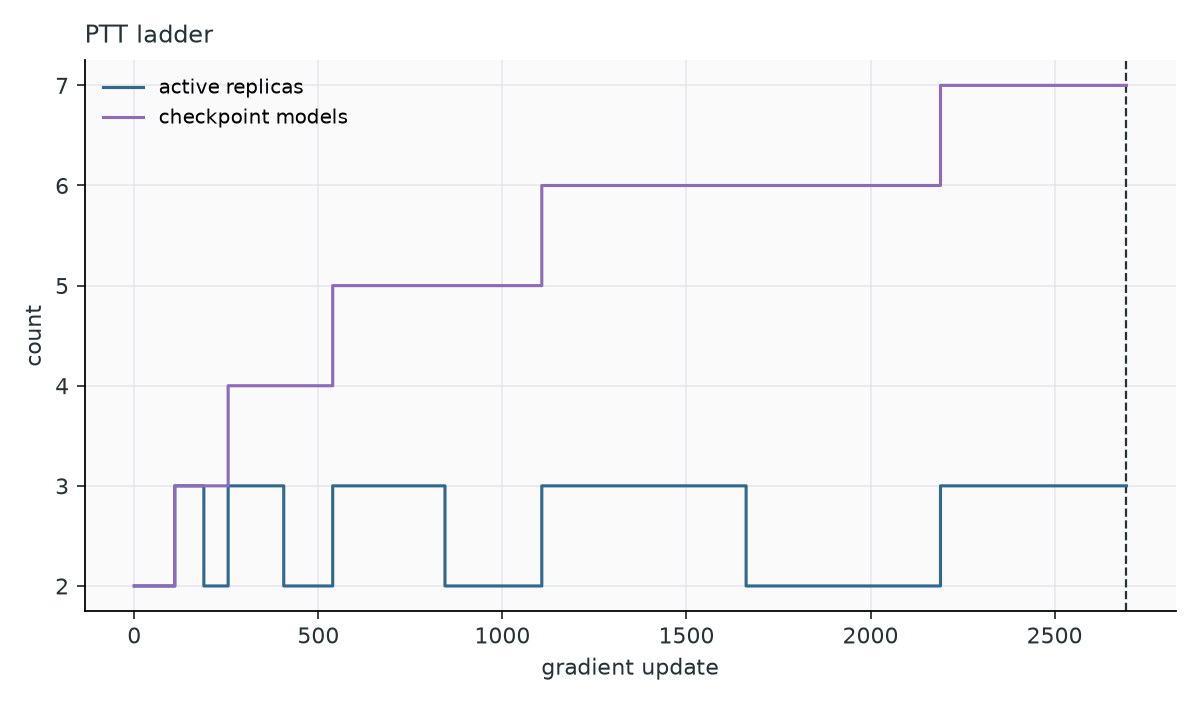
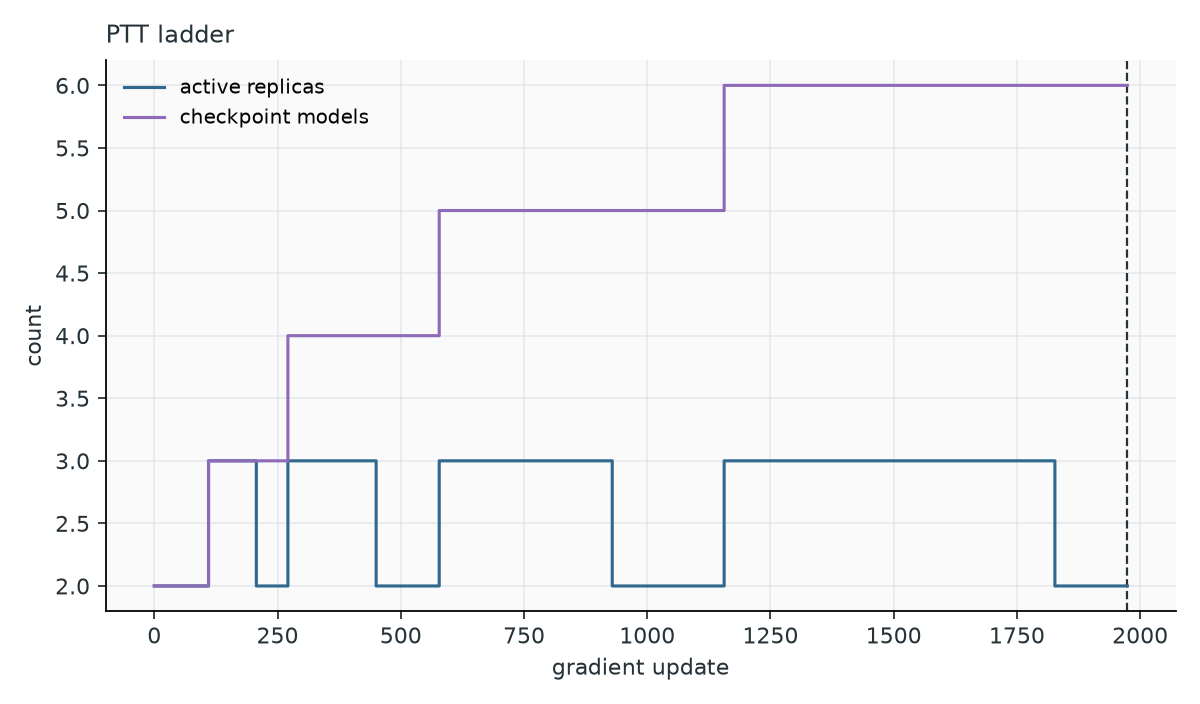
PTT: update with centred gradients by default
Summed over the partner site, the raw coupling gradient is (L-1) times the field
gradient, so the coupling step repeats the field step. When the KL trust region binds,
the adaptive optimizer then stops the fields (rate at its floor at every update on
RF00023). With the centering trick the coupling step is the difference of connected
correlations, which has no one-site part, and the field step carries the rest:
fields and couplings move independently and both use the KL budget.

Centred updates reach a higher validation likelihood on beta-lactamase and RF00023
and make cm_russ trainable at the default 10 sweeps. --no-ptt-centering restores the
raw gradient; archives written before this change resume only with it, and a
resume refused for differing PTT settings now names them (ptt.<option>).

Diagnostics: a binding trust region (and, uncentred, the field rate at its floor) is
reported as normal on its own; F5 is raised only together with mixing failures,
recoveries or repeated lag pauses. Docs and RF00379 training figures updated.

Claude-Session: https://claude.ai/code/session_01AZrtwVGjTDo49zzgvtcbPU

diff --git a/tests/test_ptt.py b/tests/test_ptt.py
@@ -222,7 +222,7 @@ def training_case(tmp_path):
 
 
 def test_ptt_sgd_keeps_both_rates_fixed():
-    config = TrainingConfig(learning_rate=0.1, ptt=PTTConfig(optimizer="sgd"))
+    config = TrainingConfig(learning_rate=0.1, ptt=PTTConfig(optimizer="sgd", centering=False))
     optimizer = _PTTOptimizer(config)
     params = profile()
     mask = torch.ones_like(params["coupling_matrix"])
@@ -295,6 +295,32 @@ def test_ptt_trust_region_keeps_rates_positive_inside_the_trust_region():
     assert scales[0] == pytest.approx(0.0, abs=1e-11) and scales[0] > 0
 
 
+def test_ptt_centering_uses_connected_correlations_and_centred_fields():
+    torch.manual_seed(0)
+    length, states = 4, 3
+    mask = torch.ones(length, states, length, states, dtype=torch.float64)
+    mask[torch.arange(length), :, torch.arange(length), :] = 0
+
+    def frequencies():
+        samples = torch.nn.functional.one_hot(torch.randint(states, (200, length)), states).double()
+        return samples.mean(0), get_freq_two_points(samples) * mask
+
+    (fi, fij), (pi, pij) = frequencies(), frequencies()
+    gradients = _PTTOptimizer._centered({"bias": fi - pi, "coupling_matrix": (fij - pij) * mask},
+                                        fi=fi, pi=pi, mask=mask)
+
+    def connected(f, ff):
+        return ff - torch.einsum("ia,jb->iajb", f, f)
+
+    coupling = gradients["coupling_matrix"]
+    assert torch.allclose(coupling, (connected(fi, fij) - connected(pi, pij)) * mask)
+    # No one-site part: every block sums to zero over the partner's states.
+    assert coupling.sum(3).abs().max() < 1e-12
+    assert torch.equal(coupling, coupling.permute(2, 3, 0, 1))
+    offset = 0.5 * (fi + pi)
+    assert torch.allclose(gradients["bias"], fi - pi - torch.einsum("iajb,jb->ia", coupling, offset))
+
+
 def test_ptt_optimizer_configuration_and_cli_are_ptt_specific(tmp_path):
     from adabmDCA.scripts.train import create_parser, run
 
@@ -303,6 +329,11 @@ def test_ptt_optimizer_configuration_and_cli_are_ptt_specific(tmp_path):
     ])
     assert parsed.ptt_optimizer == "adaptive"
     assert parsed.ptt_trust_radius == 0.002
+    assert parsed.ptt_centering is None
+    assert create_parser().parse_args([
+        "--data", "unused.fasta", "--strategy", "ptt", "--no-ptt-centering",
+    ]).ptt_centering is False
+    assert PTTConfig().centering is True
     assert create_parser().parse_args([
         "--data", "unused.fasta", "--strategy", "ptt", "--ptt-optimizer", "sgd",
     ]).ptt_optimizer == "sgd"
@@ -314,6 +345,8 @@ def test_ptt_optimizer_configuration_and_cli_are_ptt_specific(tmp_path):
         ]))
     with pytest.raises(InputValidationError, match="optimizer"):
         PTTConfig(optimizer="unknown")
+    with pytest.raises(InputValidationError, match="centering"):
+        PTTConfig(centering="yes")
 
 
 def test_ptt_metrics_resume_and_consumers(training_case, tmp_path, monkeypatch):
@@ -398,6 +431,26 @@ def test_ptt_adaptive_resume_preserves_trust_region_state(training_case, tmp_pat
     assert saved.optimizer_state["kind"] == "adaptive"
     assert saved.optimizer_state["trust_diagnostics"] is not None
     assert saved.optimizer_state["nominal_rates"] == {"bias": 0.02, "coupling_matrix": 0.02}
+
+
+def test_archives_from_before_centering_resume_uncentered(training_case, tmp_path):
+    data, base = training_case
+    assert base.ptt.centering is True
+    config = replace(base, ptt=replace(base.ptt, centering=False))
+    complete = train_model(data, config=config)
+    partial = train_model(data, config=replace(config, max_epochs=1), output_dir=tmp_path / "old")
+    archive_path = partial.artifacts["ptt_archive"]
+    with h5py.File(archive_path, "r+") as archive:
+        metadata = json.loads(archive.attrs["metadata"])
+        del metadata["config"]["centering"]
+        del metadata["training_state"]["settings"]["ptt"]["centering"]
+        archive.attrs["metadata"] = json.dumps(metadata)
+
+    with pytest.raises(InputValidationError, match="settings: ptt.centering"):
+        train_model(data, config=base, ptt_resume=archive_path)
+    resumed = train_model(data, config=config, ptt_resume=archive_path)
+    torch.testing.assert_close(complete.model.params["coupling_matrix"],
+                               resumed.model.params["coupling_matrix"], rtol=0, atol=0)
 
 
 def test_metrics_use_injected_ptt_normalizer(training_case, monkeypatch):

diff --git a/adabmDCA/parser.py b/adabmDCA/parser.py
@@ -265,6 +265,10 @@ def add_args_ptt(parser: argparse.ArgumentParser) -> argparse.ArgumentParser:
     ptt_args.add_argument("--ptt-optimizer", choices=("adaptive", "sgd"), default=None,
                           help=("PTT optimizer: adaptive bounds each update by a KL trust radius and pauses when endpoint "
                                 "chains lag; sgd uses the fixed --lr (default: adaptive)."))
+    ptt_args.add_argument("--ptt-centering", action=argparse.BooleanOptionalAction, default=None,
+                          help=("Update with the centering trick: connected-correlation coupling gradient, field step "
+                                "corrected for the centring offset. Without it the coupling step repeats the field "
+                                "step and the trust region can stop the fields (default: on)."))
     ptt_args.add_argument("--ptt-trust-radius", type=float, default=None,
                         help="Adaptive optimizer: maximum local KL divergence per update (default: 0.01).")
     ptt_args.add_argument("--ptt-lag-tolerance", type=float, default=None,
@@ -478,13 +482,13 @@ def add_args_sample(parser: argparse.ArgumentParser) -> argparse.ArgumentParser:
               "run. --ngen defaults to their number; a smaller --ngen starts from a random subset."),
     )
     standard_args.add_argument(
-        "--nsweeps", type=int, default=None,
-        help="Run exactly this many sweeps, without measuring the mixing time (replaces --max_nsweeps and --nmix).",
-    )
-    standard_args.add_argument(
         "--init-distribution", choices=("profile", "uniform"), default=None,
         help=("Distribution of the starting sequences without --init-sequences: the profile (independent-site) "
               "model of --data, or uniformly random residues. Default: profile with --data, uniform without."),
+    )
+    standard_args.add_argument(
+        "--nsweeps", type=int, default=None,
+        help="Run exactly this many sweeps, without measuring the mixing time (replaces --max_nsweeps and --nmix).",
     )
     standard_args.add_argument(
         "--record-every", type=int, default=1,

diff --git a/adabmDCA/ptt/optim.py b/adabmDCA/ptt/optim.py
@@ -28,6 +28,7 @@ class _PTTOptimizer:
         self.kind = ptt.optimizer
         self.trust_radius = ptt.trust_radius
         self.lag_tolerance = ptt.lag_tolerance
+        self.centering = ptt.centering
         self.pause_cooldown = 0
         self.last_pause = None
         self.rates = {key: config.learning_rate for key in self._keys}
@@ -297,12 +298,30 @@ class _PTTOptimizer:
         }
         self.pause_cooldown = max(0, self.pause_cooldown - 1)
 
+    @staticmethod
+    def _centered(gradients, *, fi, pi, mask):
+        """Centering trick: the gradients of the energy written in x - mu, with mu = (fi + pi) / 2, mapped back.
+
+        Summed over the partner site, the raw coupling gradient is (L - 1) times the field gradient: the
+        coupling step repeats the field step, and the two are almost collinear. Centred, the coupling
+        gradient is the difference of connected correlations, Cij_data - Cij_model, which has no one-site
+        part, and the field step absorbs the shift of the centred parametrization:
+        dh_i(a) = (fi - pi)_i(a) - sum_{j,b} dJ_ij(a, b) mu_j(b).
+        """
+        offset = 0.5 * (fi + pi)
+        coupling = (gradients["coupling_matrix"]
+                    - (torch.einsum("ia,jb->iajb", fi, fi) - torch.einsum("ia,jb->iajb", pi, pi))) * mask
+        bias = gradients["bias"] - torch.einsum("iajb,jb->ia", coupling, offset)
+        return {"bias": bias, "coupling_matrix": coupling}
+
     def step(self, *, fi, fij, pi, pij, params, mask, l2_regularization, sampler=None):
         gradients = {
             "bias": fi - pi,
             "coupling_matrix": fij - pij - l2_regularization * params["coupling_matrix"],
         }
         gradients["coupling_matrix"] = gradients["coupling_matrix"] * mask
+        if self.centering:
+            gradients = self._centered(gradients, fi=fi, pi=pi, mask=mask)
         if self.kind == "adaptive":
             if sampler is None:
                 raise InputValidationError("The adaptive PTT optimizer requires its PTT sampler.")

diff --git a/adabmDCA/api/diagnostics.py b/adabmDCA/api/diagnostics.py
@@ -301,18 +301,32 @@ def _check_training(
             "F1",
         )
     long_enough = (indicators.get("updates") or 0) >= MIN_UPDATES_FOR_RATES
-    if long_enough and (
+    # A binding trust region with the field rate at its floor is the exact optimum when the coupling step
+    # already carries the field step, and is normal on its own. It points at the learning rate only when the
+    # chains also fail to follow the model.
+    binding = long_enough and (
         (indicators.get("lr_bias_at_floor_fraction") or 0) > 0.5
         or (indicators.get("median_kl") or 0) >= 0.0099
-    ):
+    )
+    struggling = failed or indicators.get("recoveries") or indicators.get("lag_pauses", 0) >= 3
+    if binding and struggling:
         findings.add(
             "warning",
             "learning_rate_too_large",
             f"lr_bias at its floor in {indicators.get('lr_bias_at_floor_fraction')} of the "
-            f"updates, median kl {indicators.get('median_kl')} (cap 0.01): the trust region "
-            "binds at every step.",
-            "Go back to the default --lr 0.01.",
+            f"updates, median kl {indicators.get('median_kl')} (cap 0.01), together with mixing "
+            "failures, recoveries or repeated lag pauses: the steps may outpace the chains.",
+            "Treat the mixing failures first; if they persist, try a smaller --lr.",
             "F5",
+        )
+    elif binding:
+        findings.add(
+            "info",
+            "trust_region_binding",
+            f"lr_bias at its floor in {indicators.get('lr_bias_at_floor_fraction')} of the "
+            f"updates, median kl {indicators.get('median_kl')} (cap 0.01): the trust region "
+            "binds and the couplings carry the field corrections. Normal without mixing failures.",
+            "Nothing to do.",
         )
     if long_enough and (indicators.get("fraction_acceptance_below_0.1") or 0) > 0.1:
         findings.add(

diff --git a/adabmDCA/ptt/config.py b/adabmDCA/ptt/config.py
@@ -58,6 +58,10 @@ class PTTConfig:
             paused while the endpoint chains lag behind the model) or ``"sgd"``
             (fixed learning rate).
         trust_radius: Adaptive optimizer: largest predicted KL divergence of one update.
+        centering: Update with the centering trick: connected-correlation coupling
+            gradient, field step corrected for the centring offset. Removes the one-site
+            part of the coupling step, which otherwise repeats the field step and makes
+            the trust region stop the fields.
         lag_tolerance: Adaptive optimizer: largest lag of the endpoint chains, in
             population standard deviations, before training pauses.
         lag_horizon: Adaptive optimizer: memory of past updates, in updates.
@@ -102,6 +106,7 @@ class PTTConfig:
     min_learning_rate: float = 1e-8
     optimizer: str = "adaptive"
     trust_radius: float = 0.01
+    centering: bool = True
     lag_tolerance: float = 0.25
     lag_horizon: int = 200
     lag_pause_rounds: int = 100
@@ -136,6 +141,8 @@ class PTTConfig:
             raise InputValidationError("PTT renewal_tolerance must be between 0 and 1.")
         if self.optimizer not in PTT_OPTIMIZERS:
             raise InputValidationError("PTT optimizer must be 'sgd' or 'adaptive'.")
+        if not isinstance(self.centering, bool):
+            raise InputValidationError("PTT centering must be boolean.")
         if self.activation not in PTT_ACTIVATIONS:
             raise InputValidationError("PTT activation must be 'fixed' or 'adaptive'.")
         for name in (

diff --git a/tests/test_diagnostics.py b/tests/test_diagnostics.py
@@ -68,6 +68,18 @@ class DiagnoseRunTests(unittest.TestCase):
         self.assertEqual(failures["learning_rate_too_large"]["failure"], "F5")
         self.assertEqual(report["training"]["blocking_immobile_configurations"], 61)
 
+    def test_binding_trust_region_alone_is_not_a_failure(self):
+        run = self.tmp / "run"
+        write_ptt_run(run, lr_bias=1e-14, kl=0.01,
+                      summary={"stop_reason": "validation_plateau", "converged": True, "warnings": []})
+
+        report = diagnose_run(run)
+
+        codes = {finding["code"] for finding in report["findings"]}
+        self.assertNotIn("learning_rate_too_large", codes)
+        self.assertIn("trust_region_binding", codes)
+        self.assertEqual(report["verdict"], "healthy")
+
     def test_short_runs_do_not_trigger_rate_based_findings(self):
         run = self.tmp / "run"
         write_ptt_run(run, updates=20, lr_bias=1e-14, kl=0.01, summary={"stop_reason": "validation_plateau"})

diff --git a/adabmDCA/ptt/training.py b/adabmDCA/ptt/training.py
@@ -199,6 +199,14 @@ class _PTTTrainer:
             key for key in set(archived_settings) | set(current_settings)
             if archived_settings.get(key) != current_settings.get(key)
         )
+        if "ptt" in differing_settings and all(isinstance(s.get("ptt"), dict)
+                                               for s in (archived_settings, current_settings)):
+            archived_ptt, current_ptt = archived_settings["ptt"], current_settings["ptt"]
+            differing_settings.remove("ptt")
+            differing_settings += sorted(
+                f"ptt.{key}" for key in set(archived_ptt) | set(current_ptt)
+                if archived_ptt.get(key) != current_ptt.get(key)
+            )
         if target_mismatch or differing_settings:
             reasons = []
             if target_mismatch:

diff --git a/tests/test_ptt_renewal.py b/tests/test_ptt_renewal.py
@@ -279,7 +279,7 @@ def test_renewal_training_logs_resumes_exactly_and_pins_the_method(tmp_path):
     resumed = train_model(data, config=config, ptt_resume=partial.artifacts["ptt_archive"])
     torch.testing.assert_close(complete.model.params["coupling_matrix"],
                                resumed.model.params["coupling_matrix"], rtol=0, atol=0)
-    with pytest.raises(Exception, match="configuration differ from the archive in settings: ptt"):
+    with pytest.raises(Exception, match="configuration differ from the archive in settings: ptt.mixing_method"):
         train_model(data, config=replace(config, ptt=replace(config.ptt, mixing_method="autocorrelation")),
                     ptt_resume=partial.artifacts["ptt_archive"])
 

diff --git a/adabmDCA/ptt/archive.py b/adabmDCA/ptt/archive.py
@@ -179,6 +179,8 @@ def load_archive(cls, path, *, device="cpu", mode="generate", seed=None):
                 key: value for key, value in meta["config"].items()
                 if key in valid_config_fields
             }
+            # Archives written before centering became the default were trained without it.
+            meta["config"].setdefault("centering", False)
             resolved_config = asdict(PTTConfig(**meta["config"]))
             if meta["training_state"]:
                 meta["training_state"]["settings"]["ptt"] = resolved_config

diff --git a/docs/algorithms/diagnostics.md b/docs/algorithms/diagnostics.md
@@ -33,11 +33,14 @@ The failures observed so far fall into three groups:
 | Error naming a link "below the target", with no immobile configurations | [F3](#f3-a-ladder-link-is-too-wide) | Smaller `--lr`, or larger `--ptt-target-acceptance` |
 | Error saying "every link accepts at least the target" | [F4](#f4-the-replicas-relax-too-slowly) | More `--nsweeps` |
 | Repeated `restored step …; learning rates …` lines, `lr_coupling` halving | F1, F3, F4 or F5 | Read the mixing-failure lines just before each recovery |
-| `lr_bias` at ~10⁻¹⁴ and `kl` at 0.01 for most updates | [F5](#f5-the-learning-rate-is-too-large) | Back to the default `--lr 0.01` |
+| `kl` at 0.01 for most updates (and `lr_bias` at ~10⁻¹⁴ with `--no-ptt-centering`), with mixing failures or recoveries | [F5](#f5-the-learning-rate-is-too-large) | Treat the failures first; then a smaller `--lr` |
+| `kl` at 0.01 for most updates, training otherwise clean | The trust region binds; normal | Nothing |
+| `lr_bias` at ~10⁻¹⁴ for many updates, with `--no-ptt-centering` | The field steps are stopped, training is slow | Drop `--no-ptt-centering` ([why](training.md#centred-updates)) |
 | Training finished, but independent samples disagree with training (Pearson, cluster shares), or the ladder health shows trapped links | [F6](#f6-good-metrics-miscalibrated-model) | Retrain with more `--nsweeps` |
 | PTT sampling warns that `G` stopped decreasing or its decay time doubled, or hits `--ptt-max-rounds` | [F7](#f7-slow-or-incomplete-ptt-sampling) | Usually a better training run |
 | "PTT initial mixing experiment exceeded its round budget" | [F8](#f8-the-initial-mixing-check-fails) | Check the input |
 | PCD model: plain MCMC sampling reaches `--max_nsweeps` without a mixing time | [Checking a PCD model](#checking-a-pcd-model) | Retrain with PTT |
+| Plain MCMC samples have many more gaps than the data at the ends of the alignment, or in another block of columns, and a Pearson that depends on the seed | Chains trapped in a gap block ([Plain MCMC and blocks of gaps](#plain-mcmc-and-blocks-of-gaps)) | Start from the profile (the default with `-d`), or sample with PTT |
 | Plain MCMC resampling: `pearson_sampling.png` rises above its final level, then declines | Model trained out of equilibrium ([Checking a PCD model](#checking-a-pcd-model)) | Retrain with PTT |
 
 ## Triage procedure
@@ -70,8 +73,8 @@ The failures observed so far fall into three groups:
 | `ll_val` | Rising, then flat; spikes up to 0.01 per site at ladder changes | Falling over hundreds of updates |
 | `acceptance_min` | Saw-tooth between ~0.25 and 0.5–0.9 | Long stretches below 0.25, or below 0.1 |
 | `replicas` | 2–3 | — |
-| `lr_bias`, `lr_coupling` | At `--lr` most of the time | Halved after recoveries; `lr_bias` at the floor most of the time |
-| `kl` | Median well below 0.01 (~10⁻³) | Pinned at 0.01 |
+| `lr_bias`, `lr_coupling` | At `--lr`; below it when the trust region binds (with `--no-ptt-centering`, `lr_bias` at the floor instead) | Halved after recoveries |
+| `kl` | Below 0.01, or pinned at 0.01 when the trust region binds | Pinned at 0.01 together with mixing failures |
 | `lag_drift`, `lag_drift_tail` | Below ~0.05 most of the time | Peaks approaching 0.25 |
 
 **5. Check the finished model** as described [below](#checking-a-finished-model). Training metrics alone cannot prove that a model is good.
@@ -174,11 +177,13 @@ On a healthy protein run (cm_russ, `--nsweeps 100`): `validation_plateau`, no fa
 
 ### F5. The learning rate is too large
 
-**Symptoms.** `kl` pinned at 0.01, `lr_coupling` below `--lr` and fluctuating, `lr_bias` at about 10⁻¹⁴ for most updates, earlier and more frequent mixing failures.
+**Symptoms.** Earlier and more frequent mixing failures and recoveries, while `kl` is pinned at 0.01. With `--no-ptt-centering`, `lr_bias` also sits at about 10⁻¹⁴.
 
-**Mechanism.** With a large `--lr` the trust region binds at every step. Field and coupling steps change the sequence statistics along strongly correlated directions, so the optimizer spends the whole budget on the couplings and sets the field rate to its floor: the exact optimum of its quadratic model, not a bug. The larger steps move the model faster than the chains can follow, making F1 and F3 more likely. (Occasional updates with the field rate at the floor are normal at any learning rate.)
+**Mechanism.** The larger steps move the model faster than the chains can follow, making F1 and F3 more likely.
 
-**Fix.** The default `--lr 0.01`.
+A pinned `kl` alone is not a symptom, nor is the field rate at its floor with `--no-ptt-centering`: the raw coupling step repeats the field step, so a binding trust region stops the fields and fits them through the couplings, more slowly ([centred updates](training.md#centred-updates)).
+
+**Fix.** Treat the mixing failures first (F1, F3). If they persist, use a smaller `--lr`.
 
 ### F6. Good metrics, miscalibrated model
 
@@ -233,6 +238,14 @@ A PCD model has no ladder, so it can only be sampled with plain MCMC. Run `adabm
 3. **The plateau value**, compared with the training Pearson at equal sample size, as for PTT models.
 
 Passing all three is necessary, not sufficient. A monotone curve can belong to a model whose relaxation is too slow to show the decline within the run, or to chains confined to one region of a multimodal model.
+
+### Plain MCMC and blocks of gaps
+
+Columns that are gapped together in some sequences form a cooperative unit. Truncated sequences are the common case: in RF00023, 3% of the training sequences lack both strands of the terminal helix, with columns 0–7 and the last 14 gapped together. Every model of that family makes this state a deep trap for single-site updates. It lies about 20 energy units below the complete sequence, and a gap at its edge stays a gap with probability 0.99, because putting a nucleotide there leaves it facing a gap in its paired column. Its equilibrium weight is only 3% because it has much less entropy: the summed CDE of those 22 columns is 1.1–1.6 nats, against 3.4–4.2 when the helix is present. Plain MCMC cannot cross between the two states: from any start, the gapped state ends at its starting share.
+
+Where the chains start therefore decides the result. Uniformly random sequences have a gap at one site in five, and in that context the model is not constrained by data. A model of RF00023 trained with [centred updates](training.md#centred-updates), the default, gives the terminal columns a gap probability of 0.35 there. Within 30 sweeps, 10–28% of the chains (depending on the seed) had built the gapped state, against 3% at equilibrium, and they stayed there for the whole run. The Pearson of the samples fell to 0.77–0.91, against 0.946 for PTT, and the mixing time was reached anyway, since it is measured from natural sequences. The other models of the family gave the same columns a gap probability of 0.03–0.11 in a random context and only 0.1% of the chains got trapped. Started from the profile, the same centered model gave 0.941.
+
+The profile is the default start for this reason. It does not make plain MCMC exact: from the profile, every model of RF00023 ended with 0–0.3% of the chains in the gapped state instead of 2–3%, because the chains cannot build it either. PTT samples it correctly. When plain MCMC samples differ from the data in a block of columns that are often gapped, compare the gap frequency of those columns with the data's, and sample with PTT.
 
 ## Distances and overfitting
 

diff --git a/docs/algorithms/training.md b/docs/algorithms/training.md
@@ -84,11 +84,15 @@ When a check fails, PTT **recovers**: it searches the saved checkpoints backward
 
 [Diagnose a run](diagnostics.md) explains each case and what to change.
 
+### Centred updates
+
+The raw coupling gradient, \(f_{ij} - p_{ij}\), repeats the field gradient: summed over the partner site it is \(L-1\) times \(f_i - p_i\). By default PTT removes this one-site part with the **centering trick**: the coupling step becomes the difference of connected correlations, \(C_{ij}^{\rm data} - C_{ij}^{\rm model}\), and the field step takes over the single-site correction ([formulas](../quantities/training.md#adaptive-optimizer-and-predicted-kl)). Field and coupling updates are then no longer correlated, so the [trust region](#the-adaptive-optimizer) spends its KL budget on both instead of stopping the fields, and training goes further: on β-lactamase and RF00023 it reaches a clearly higher validation likelihood. On cm_russ it also makes training at the default 10 sweeps work, where without centering the run stalls in repeated pauses and needs `--nsweeps 100`. The better-fitted models can be somewhat harder to sample: on large families, PTT sampling may need a larger `--ptt-max-rounds` ([F7](diagnostics.md#f7-slow-or-incomplete-ptt-sampling)). `--no-ptt-centering` restores the raw gradient.
+
 ### The adaptive optimizer
 
 The default PTT optimizer, `adaptive`, does two things a fixed learning rate cannot.
 
-**Trust-region steps.** Fields and couplings get separate learning rates, both at most `--lr`. Before every update the optimizer estimates, from the endpoint chains, how much the proposed step would change the model distribution, measured as a KL divergence. It accounts for the correlation between field and coupling directions, which is strong (95% on cm_russ). It then picks the rates that maximize the predicted likelihood gain while keeping the predicted KL below `--ptt-trust-radius` (0.01). At the default `--lr 0.01` the constraint rarely binds: both rates stay at 0.01 and the predicted KL is around 10⁻³. With a larger `--lr`, it binds at every step, and the optimizer spends the whole budget on the couplings, leaving the field rate at its floor.
+**Trust-region steps.** Fields and couplings get separate learning rates, both at most `--lr`. Before every update the optimizer estimates, from the endpoint chains, how much the proposed step would change the model distribution, measured as a KL divergence. It accounts for the correlation between field and coupling directions. It then picks the rates that maximize the predicted likelihood gain while keeping the predicted KL below `--ptt-trust-radius` (0.01). With centred updates at the default `--lr 0.01`, the constraint rarely binds: both rates stay at 0.01. When it binds, both rates fall together.
 
 **Pausing when the chains fall behind.** A small step in parameter space can still be too fast for the chains. When a new mode forms (a subfamily the model starts to represent), the time the chains need to populate it grows. If updates continue, the gradient is computed from chains that under-represent the mode, asks for more of it, and the model overshoots. The optimizer measures this **lag** before every update. Each endpoint configuration carries a memory of the energy changes recent updates imposed on it; if the chains had caught up, a configuration's current state would no longer correlate with those pushes. The remaining correlation, in population standard deviations, is the lag. It is measured along the *drift*, the energy difference between the endpoint and the rung below, which is the direction the model has moved, and along the tails of the drift distribution, where a forming mode first shows.
 
@@ -150,6 +154,8 @@ With windows of 100 on RF00379 (three seeds, as in the figure), the rule stopped
 
 *The same models, validation log-likelihood against mixing time, coloured by update. Up to the validation stop (circled) both grow together; afterwards the mixing time keeps growing while the held-out likelihood declines.*
 
+The mixing time does not follow the size of the couplings. On RF00023, models with the same coupling norm, trained with different learning rates, differed by 1.5× in mixing time, and a model with smaller couplings mixed more slowly than one with larger couplings. This is an observation on a few models, not a rule. How long a model takes to sample depends on how its couplings are arranged, so measure it rather than infer it from the parameters.
+
 A Pearson target chosen in advance cannot tell where this turning point lies: it depends on the family and on the training data. When a validation set is available, rely on the validation stop rather than on `--target`.
 
 **Budgets.** `--max-gradient-steps`, `--max-structure-steps` and `--nepochs` stop training before convergence, with a stop reason that says so.
@@ -176,11 +182,11 @@ The figures produced by `plot-training-log` for an RF00379 PTT run. Read them to
 
 ![RF00379 learning rates](../figures/rf00379/training/training_learning_rates.png){ width="600" }
 
-**Learning rates.** At the default `--lr` both rates stay at 0.01 most of the time. Occasional updates with the field rate at its floor (10⁻¹⁴) are normal: the trust region then spends its budget on the couplings. A field rate at the floor for most updates means `--lr` is too large. Halved rates after a recovery persist.
+**Learning rates.** Both rates stay at `--lr` while the trust region does not bind, and fall below it when it binds. With `--no-ptt-centering`, the field rate often drops to its floor (10⁻¹⁴) instead ([why](#centred-updates)). Rates below `--lr` point to a learning rate that is too large only together with mixing failures or recoveries. Halved rates after a recovery persist. A trust region that does not bind is no reason to raise `--lr`: with centred updates, `--lr 0.1` gave a slightly worse model on RF00023, and on β-lactamase a slightly better one that PTT could no longer sample to equilibrium.
 
 ![RF00379 predicted KL](../figures/rf00379/training/training_kl.png){ width="600" }
 
-**Predicted KL.** How far each update moves the model, according to the optimizer. A median around 10⁻³ is typical; values pinned at the trust radius (0.01) mean the steps are capped.
+**Predicted KL.** How far each update moves the model, according to the optimizer. A median well below the trust radius is typical; values pinned at 0.01 mean the steps are capped.
 
 ![RF00379 chain lag](../figures/rf00379/training/training_lag.png){ width="600" }
 

diff --git a/docs/usage/train.md b/docs/usage/train.md
@@ -67,7 +67,7 @@ adabmDCA train -d train.fasta -v validation.fasta -o model --plot-training-logs
 
 Sparse models have their own options: `--gsteps` (10, parameter updates per graph change) and `--factivate` (0.001, fraction of the inactive couplings activated each time) for eaDCA; `--density` (0.02, final fraction of couplings) and `--drate` (0.01, fraction removed per step) for edDCA. For edgeDCA the pseudocount, not `--lr`, sets the size of each update: values closer to 1 give smaller steps, and some datasets need values up to 0.95.
 
-PTT has about thirty further options, all prefixed `--ptt-`. The defaults rarely need changing; the ones that do are discussed in [Diagnose a run](../algorithms/diagnostics.md#hyperparameters-that-matter-for-diagnosis), and the full list is in `adabmDCA train --help` and the [PTT configuration reference](../api/adabmDCA.ptt.config.md).
+PTT has about thirty further options, all prefixed `--ptt-`. One changes the update rule: PTT updates with the centering trick by default, and `--no-ptt-centering` uses the raw gradient instead, which trains more slowly on several families ([why](../algorithms/training.md#centred-updates)). The defaults rarely need changing; the ones that do are discussed in [Diagnose a run](../algorithms/diagnostics.md#hyperparameters-that-matter-for-diagnosis), and the full list is in `adabmDCA train --help` and the [PTT configuration reference](../api/adabmDCA.ptt.config.md).
 
 ## What you see while it runs
 
@@ -134,7 +134,7 @@ adabmDCA train -d train.fasta -v validation.fasta -o model \
     --ptt-resume model/ptt.h5 --max-gradient-steps 20000
 ```
 
-The archive restores the ladder, the chains, the optimizer and the random state, so a resumed run continues exactly. Only the update budget, the stopping criteria (`--target` and the `--ptt-validation-*` options), the checkpoint interval and the logging options may change; a run stopped on the validation plateau can thus be continued with `--no-ptt-validation-stop`. `history.csv` is rewritten from the archive, and the log and events are appended. Do not resume a run that failed because configurations were trapped: restart it from scratch with more sweeps instead.
+The archive restores the ladder, the chains, the optimizer and the random state, so a resumed run continues exactly. Only the update budget, the stopping criteria (`--target` and the `--ptt-validation-*` options), the checkpoint interval and the logging options may change; a run stopped on the validation plateau can thus be continued with `--no-ptt-validation-stop`. Archives written before centering became the default were trained without it and resume only with `--no-ptt-centering`. `history.csv` is rewritten from the archive, and the log and events are appended. Do not resume a run that failed because configurations were trapped: restart it from scratch with more sweeps instead.
 
 **PCD.** Start from the saved parameters and chains:
 
